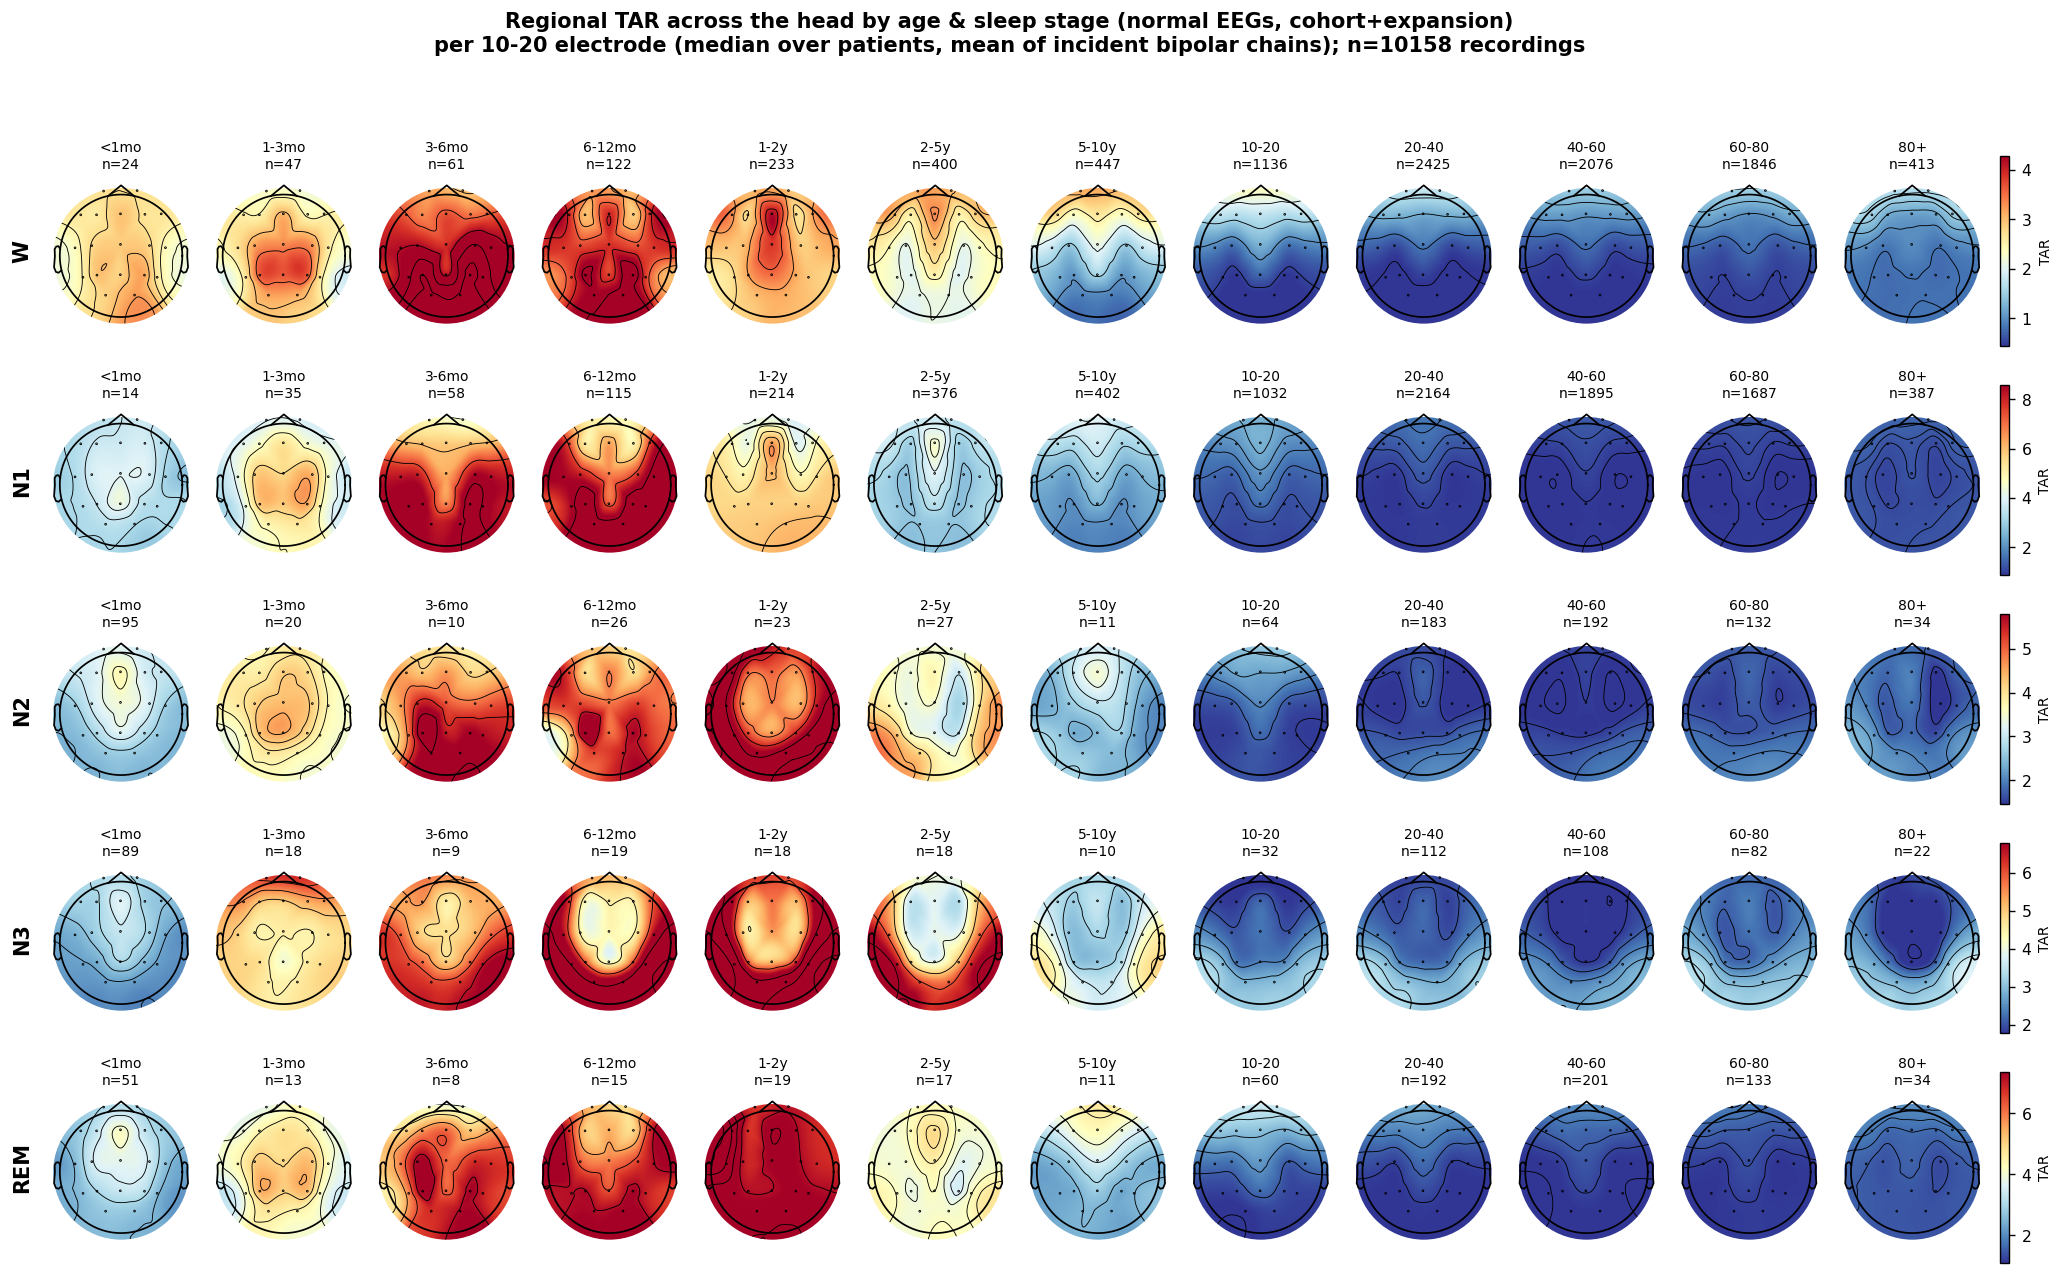
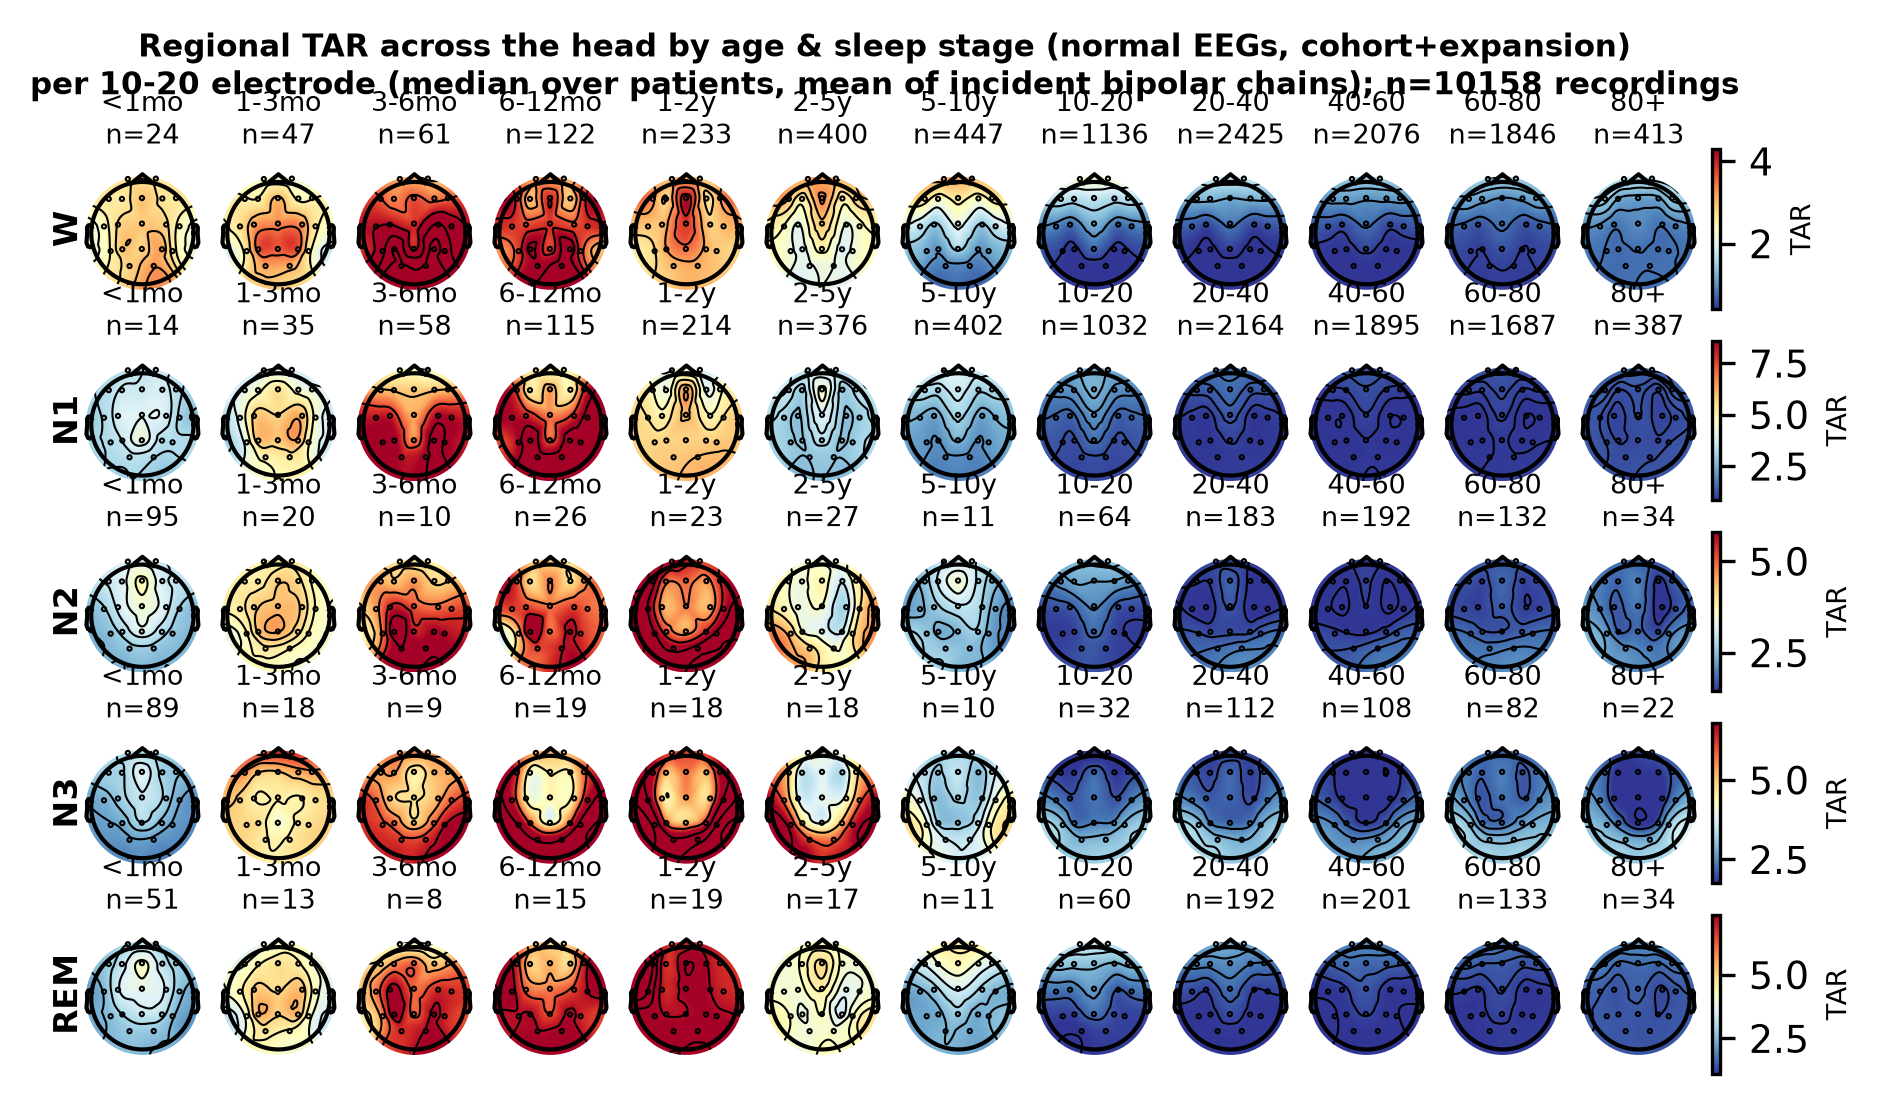
Phase 3: rebuild Figure 1 for the posterior rhythm and a readable adult axis (C100)
Shafi's two "MAJOR CRITIQUES" on Figure 1, both addressed in scripts/76:

1. The keystone was built on central derivations (C3/C4). The posterior
   dominant rhythm is read clinically from O1/O2, so the curves are now
   fitted on the occipital derivations (P3-O1, T5-O1, P4-O2, T6-O2).
   REGION=central restores the previous panel.

2. A single log10 age axis compressed all of adulthood into the last
   fifth of each cell. Every cell is now split into two sub-axes sharing
   a y-scale: log-spaced development to 20y, then a LINEAR adult axis to
   95y, with a dashed spine marking the break. The aging trend is legible
   for the first time.

Both Figure 1 panels are now authored at <=7.1in, so the composite no
longer shrinks them and the legibility guard passes. scripts/77 (the
topoplots, Figure 1b and S8) is likewise narrowed and its fonts scaled.
Ten figures still trip the guard and need the same treatment.

Also corrects a claim the new figure disproves. The text said the fitted
median "tracks closely across the lifespan" against the model-free
rolling median. It does from late infancy on, but for the ratio features
-- most visibly DAR in wake -- the penalized spline undershoots the
rolling median between roughly 3 and 12 months, where the ratio
distributions are strongly skewed and change fast. Said plainly, with
infant DAR/TAR z-scores flagged as conservative and a [verify] to refit
that range at higher mu df before submission.
[…]

diff --git a/scripts/76_keystone_growth_grid.py b/scripts/76_keystone_growth_grid.py
@@ -20,12 +20,24 @@ FEAT_LABEL = {"rel_delta": "Relative delta  (δ / total)", "TAR": "Theta/alpha r
               "DAR": "Delta/alpha ratio  (DAR)", "log_delta": "log delta power", "low_freq_rel": "low-freq / total"}
 FEAT_AUC = {"rel_delta": 0.72, "TAR": 0.82, "DAR": 0.79, "log_delta": 0.74, "low_freq_rel": 0.72}
 TABLE = "data/derived/channel_stage_features.parquet"
+# Review C100: the posterior dominant rhythm is read clinically from O1/O2 (at most P3/P4), not C3/C4, so
+# the keystone is now built on the occipital derivations. REGION=central restores the original panel.
+OCCIPITAL = ["P3-O1", "T5-O1", "P4-O2", "T6-O2"]
 CENTRAL = ["F3-C3", "C3-P3", "F4-C4", "C4-P4"]
+REGION = os.environ.get("REGION", "occipital").lower()
+CHANS = CENTRAL if REGION == "central" else OCCIPITAL
+REGION_LABEL = "central (C3/C4)" if REGION == "central" else "occipital (O1/O2)"
 STAGES = ["W", "N1", "N2", "N3", "REM"]
 YODA = {"W": "#E8B800", "N1": "#5FB0D0", "N2": "#4488FF", "N3": "#00008B", "REM": "#A040A0"}
 BANDS = [(3, 97), (10, 90), (25, 75)]
-TICK_AGES = [0, 1/12, 3/12, 6/12, 1, 2, 5, 10, 15, 20, 30, 40, 50, 60, 70, 80]
-TICK_LABELS = ["0", "1mo", "3mo", "6mo", "1", "2", "5", "10", "15", "20", "30", "40", "50", "60", "70", "80"]
+# Review C100: a single log10 age axis compresses all of adulthood into the last fifth of the panel, so the
+# aging trend cannot be read. Each cell is therefore split: log-spaced development to SPLIT_AGE, then a
+# LINEAR adult axis, drawn as two adjacent sub-axes sharing a y-scale.
+SPLIT_AGE = 20.0
+DEV_TICKS = [1/12, 6/12, 2, 5, 10, 20]
+DEV_LABELS = ["1mo", "6mo", "2", "5", "10", "20"]
+ADULT_TICKS = [30, 40, 50, 60, 70, 80, 90]
+ADULT_LABELS = ["30", "40", "50", "60", "70", "80", "90"]
 def A2T(age): return np.log10(np.asarray(age, float) + 1/12)
 
 
@@ -42,8 +54,8 @@ def rolling_pctile(t_data, v_data, t_grid, q=0.5, h=0.11):
 
 
 def fit_feature(df, feat):
-    """central per-(recording,stage) for one feature, overnight only -> GAMLSS curves per stage."""
-    c = df[df.region.isin(CENTRAL)].groupby(["bdsp_id", "stage"]).agg(
+    """region-mean per-(recording,stage) for one feature -> GAMLSS curves per stage."""
+    c = df[df.region.isin(CHANS)].groupby(["bdsp_id", "stage"]).agg(
         val=(feat, "mean"),
         # PUBLISHED artefact -> HIPAA Safe Harbor: ages >89 are binned to 90+ (the de-identified
         # OMOP does NOT do this for us; it returns ages up to 121). age_pub is the only age that
@@ -69,46 +81,82 @@ def fit_feature(df, feat):
 def main():
     df = pd.read_parquet(TABLE)
     # UNION of both report-normal cohorts. Valid once BOTH cohorts are on the identical extract.py+Morgoth
-    # pipeline (the cohort recompute) — before that, use src=="expansion" only. The union is the broad,
-    # conservative clinical-normal (scripts/79 showed it costs no detection power).
+    # pipeline (the cohort recompute) — the union is the broad, conservative clinical-normal.
     df = df[df.clean_normal == True]
-    nfig, nrow, ncol = len(FEATURES), len(STAGES), len(FEATURES)
-    fig, axes = plt.subplots(nrow, ncol, figsize=(4.6 * ncol, 2.5 * nrow), squeeze=False)
-    tg = A2T(np.logspace(np.log10(1/12), np.log10(90), 160))
+    ncol = len(FEATURES); nrow = len(STAGES)
+
+    # Sized for the page, not for the screen: the composite gives each figure 7in of width, so authoring
+    # wider than that shrinks every label below legibility (review C103). Kept at 7.1in.
+    fig = plt.figure(figsize=(7.1, 1.42 * nrow + 1.05))
+    # two sub-columns per feature: log-age development | linear-age adulthood
+    gs = fig.add_gridspec(nrow, 2 * ncol, width_ratios=[1.35, 1.0] * ncol,
+                          hspace=0.16, wspace=0.06, left=0.085, right=0.995, top=0.855, bottom=0.085)
+    tsplit = A2T(SPLIT_AGE)
 
     for cj, feat in enumerate(FEATURES):
         c, curves = fit_feature(df, feat)
-        ylo, yhi = c.val.quantile([0.01, 0.99])                      # shared y across stages within a feature
+        ylo, yhi = c.val.quantile([0.01, 0.99])                  # shared y across stages within a feature
         for ri, stage in enumerate(STAGES):
-            ax = axes[ri][cj]; col = YODA[stage]
+            col = YODA[stage]
             sub = c[c.stage == stage]
-            ax.scatter(sub.t, sub.val, s=3, alpha=0.12, color="#333", edgecolors="none", zorder=1)
             cv = curves[curves.group == stage].sort_values("t")
-            if len(cv):
-                for a, b in BANDS:
-                    ax.fill_between(cv.t, cv[f"p{a}"], cv[f"p{b}"], color=col, alpha=0.20, lw=0, zorder=2)
-                ax.plot(cv.t, cv.p50, color=col, lw=2.3, zorder=3)
-                emp = rolling_pctile(sub.t.values, sub.val.values, cv.t.values, 0.5)
-                ax.plot(cv.t, emp, color="k", lw=1.0, ls=(0, (4, 2)), alpha=0.7, zorder=4)
-            ax.set_ylim(ylo, yhi); ax.grid(alpha=0.18)
-            ax.set_xticks(A2T(TICK_AGES))
-            ax.set_xticklabels(TICK_LABELS if ri == nrow - 1 else [], fontsize=6.5, rotation=45, ha="right")
-            if cj == 0:
-                ax.set_ylabel(stage, fontsize=13, fontweight="bold", rotation=0, ha="right", va="center", labelpad=14)
-            ax.tick_params(labelsize=7)
+            emp = rolling_pctile(sub.t.values, sub.val.values, cv.t.values, 0.5) if len(cv) else None
+            axes_pair = []
+            for k in (0, 1):                                     # 0 = development (log), 1 = adult (linear)
+                ax = fig.add_subplot(gs[ri, 2 * cj + k])
+                axes_pair.append(ax)
+                dev = k == 0
+                # x transform: log-age on the left panel, raw years on the right
+                def X(t_arr):
+                    a = 10 ** np.asarray(t_arr, float) - 1 / 12
+                    return A2T(a) if dev else a
+                m_s = (sub.age <= SPLIT_AGE) if dev else (sub.age > SPLIT_AGE)
+                ax.scatter(X(sub.t[m_s]), sub.val[m_s], s=1.6, alpha=0.10, color="#333",
+                           edgecolors="none", zorder=1)
+                if len(cv):
+                    age_c = 10 ** cv.t.values - 1 / 12
+                    m_c = (age_c <= SPLIT_AGE) if dev else (age_c > SPLIT_AGE)
+                    xc = X(cv.t.values)[m_c]
+                    for a, b in BANDS:
+                        ax.fill_between(xc, cv[f"p{a}"].values[m_c], cv[f"p{b}"].values[m_c],
+                                        color=col, alpha=0.20, lw=0, zorder=2)
+                    ax.plot(xc, cv.p50.values[m_c], color=col, lw=1.6, zorder=3)
+                    if emp is not None:
+                        ax.plot(xc, emp[m_c], color="k", lw=0.8, ls=(0, (3, 2)), alpha=0.7, zorder=4)
+                ax.set_ylim(ylo, yhi)
+                ax.grid(alpha=0.16, lw=0.4)
+                ax.tick_params(labelsize=5.6, length=2, pad=1.5)
+                if dev:
+                    ax.set_xlim(A2T(1 / 12), tsplit)
+                    ax.set_xticks(A2T(DEV_TICKS))
+                    ax.set_xticklabels(DEV_LABELS if ri == nrow - 1 else [], rotation=45, ha="right")
+                    ax.spines["right"].set_visible(False)
+                else:
+                    ax.set_xlim(SPLIT_AGE, 95)
+                    ax.set_xticks(ADULT_TICKS)
+                    ax.set_xticklabels(ADULT_LABELS if ri == nrow - 1 else [], rotation=45, ha="right")
+                    ax.spines["left"].set_linestyle((0, (2, 2)))
+                    ax.tick_params(labelleft=False)
+                if k == 0 and cj == 0:
+                    ax.set_ylabel(stage, fontsize=8.5, fontweight="bold", rotation=0,
+                                  ha="right", va="center", labelpad=9)
+                else:
+                    ax.tick_params(labelleft=False)
             if ri == 0:
-                ax.set_title(f"{FEAT_LABEL.get(feat, feat)}\nnormal-vs-abnormal AUROC ≈ {FEAT_AUC.get(feat,0):.2f}",
-                             fontsize=11, fontweight="bold")
+                axes_pair[0].set_title(f"{FEAT_LABEL.get(feat, feat)}\nAUROC ≈ {FEAT_AUC.get(feat, 0):.2f}",
+                                       fontsize=7.2, fontweight="bold", loc="left", pad=4)
             if ri == nrow - 1:
-                ax.set_xlabel("age (years, log-scaled)", fontsize=8)
+                axes_pair[0].set_xlabel("age (log)", fontsize=6.2, labelpad=1)
+                axes_pair[1].set_xlabel("age (linear)", fontsize=6.2, labelpad=1)
 
-    fig.suptitle("Normative EEG-slowing growth curves across the lifespan, by sleep stage & feature\n"
-                 "central (C3/C4), union of both cohorts (routine+overnight, identical pipeline), sexes pooled; GAMLSS/LMS BCT — solid median, dashed = "
-                 "model-free rolling median, bands p3–p97/p10–p90/p25–p75  (n≈15k/stage)", fontsize=12)
-    fig.tight_layout(rect=[0.01, 0, 1, 0.96])
+    fig.suptitle("Normative EEG-slowing growth curves across the lifespan, by sleep stage and feature\n"
+                 f"{REGION_LABEL}; sexes pooled; GAMLSS/LMS BCT — solid median, dashed = model-free rolling "
+                 "median,\nbands p3–p97 / p10–p90 / p25–p75. Each cell: log-spaced development to "
+                 f"{SPLIT_AGE:.0f}y, then a linear adult axis.",
+                 fontsize=7.6, y=0.985)
     out = Path("figures/growth_v2/keystone_growth_grid.png"); out.parent.mkdir(parents=True, exist_ok=True)
-    fig.savefig(out, dpi=300, bbox_inches="tight"); plt.close(fig)
-    print("wrote", out)
+    fig.savefig(out, dpi=300, facecolor="white"); plt.close(fig)
+    print("wrote", out, f"[region={REGION}]")
 
 
 if __name__ == "__main__":

diff --git a/scripts/77_topoplots_by_age.py b/scripts/77_topoplots_by_age.py
@@ -55,7 +55,7 @@ def to_electrodes(chan_series):
 
 
 def render(tab, info, feature):
-    fig, axes = plt.subplots(len(STAGES), len(AGE_BINS), figsize=(1.7 * len(AGE_BINS), 2.3 * len(STAGES)))
+    fig, axes = plt.subplots(len(STAGES), len(AGE_BINS), figsize=(min(7.1, 1.7 * len(AGE_BINS)), min(7.1, 1.7 * len(AGE_BINS)) / (1.7 * len(AGE_BINS)) * 2.3 * len(STAGES)))
     for ri, stage in enumerate(STAGES):
         vals_by_bin = []
         for (lo, hi) in AGE_BINS:
@@ -72,15 +72,15 @@ def render(tab, info, feature):
                                              show=False, cmap="RdYlBu_r", vlim=(vmin, vmax),
                                              contours=4, sensors=True, image_interp="cubic",
                                              extrapolate="head", res=128)
-            ax.set_title(f"{BIN_LABELS[ci]}\nn={nrec}", fontsize=8)
+            ax.set_title(f"{BIN_LABELS[ci]}\nn={nrec}", fontsize=6.5)
             if ci == 0:
-                ax.text(-0.3, 0.5, stage, transform=ax.transAxes, fontsize=12, fontweight="bold",
+                ax.text(-0.3, 0.5, stage, transform=ax.transAxes, fontsize=8, fontweight="bold",
                         rotation=90, va="center")
         if im is not None:
-            fig.colorbar(im, ax=list(axes[ri]), fraction=0.015, pad=0.01).set_label(feature, fontsize=8)
+            fig.colorbar(im, ax=list(axes[ri]), fraction=0.015, pad=0.01).set_label(feature, fontsize=6.5)
     fig.suptitle(f"Regional {feature} across the head by age & sleep stage (normal EEGs, cohort+expansion)\n"
                  f"per 10-20 electrode (median over patients, mean of incident bipolar chains); "
-                 f"n={tab.bdsp_id.nunique()} recordings", fontsize=12)
+                 f"n={tab.bdsp_id.nunique()} recordings", fontsize=7.5)
     out = Path(f"figures/growth_v2/topo_{feature}_by_age_stage.png")
     out.parent.mkdir(parents=True, exist_ok=True)
     fig.savefig(out, dpi=300, bbox_inches="tight"); plt.close(fig)

diff --git a/docs/manuscript_draft.md b/docs/manuscript_draft.md
@@ -94,7 +94,7 @@ Routine EEG feature sets are unstaged. We staged each recording from the raw EEG
 
 ### 2.4 Normative growth curves (GAMLSS)
 
-For each feature × region × sleep stage we estimate normal-population percentile \"growth curves\" as a continuous function of age using GAMLSS, the method behind clinical growth charts (Cole & Green \[11\]; Rigby & Stasinopoulos \[10\]). Age is entered as `log10(age + 1/12)`, expanding infancy where maturation is fastest. Two families are used according to the feature\'s support: positive features (relative powers, ratios) are fit with a Box--Cox-t (BCT) distribution with penalized-spline median, dispersion and age-varying skewness (`mu`, `sigma`, `nu` each smooth in log-age), which removes an infant-age median bias that a constant-skewness fit produces. The BCT's fourth parameter, the **tail/kurtosis parameter `tau`** (the degrees of freedom of the underlying t), is also fitted per cell and is used in scoring: a value is mapped to its centile through the t CDF at that cell's `tau`, so heavy-tailed cells do not manufacture extreme z-scores. Real-line log features real-line log features (log_delta, log_theta, log_TAR, which take negative values in 15--37% of segments) are fit with a support-aware robust median-in-log-age model on the real line. The Python BCT z-scores are validated exact against R `gamlss` `centiles.pred`. Each curve is checked against a model-free rolling median in a sliding, age-widening window, which the fitted median tracks closely across the lifespan.
+For each feature × region × sleep stage we estimate normal-population percentile \"growth curves\" as a continuous function of age using GAMLSS, the method behind clinical growth charts (Cole & Green \[11\]; Rigby & Stasinopoulos \[10\]). Age is entered as `log10(age + 1/12)`, expanding infancy where maturation is fastest. Two families are used according to the feature\'s support: positive features (relative powers, ratios) are fit with a Box--Cox-t (BCT) distribution with penalized-spline median, dispersion and age-varying skewness (`mu`, `sigma`, `nu` each smooth in log-age), which removes an infant-age median bias that a constant-skewness fit produces. The BCT's fourth parameter, the **tail/kurtosis parameter `tau`** (the degrees of freedom of the underlying t), is also fitted per cell and is used in scoring: a value is mapped to its centile through the t CDF at that cell's `tau`, so heavy-tailed cells do not manufacture extreme z-scores. Real-line log features real-line log features (log_delta, log_theta, log_TAR, which take negative values in 15--37% of segments) are fit with a support-aware robust median-in-log-age model on the real line. The Python BCT z-scores are validated exact against R `gamlss` `centiles.pred`. Each curve is checked against a model-free rolling median in a sliding, age-widening window, and both are plotted together in Figure 1a so the reader can see the agreement rather than take it on trust. The fitted median tracks the empirical one closely from late infancy onward. It does **not** track it through the sharpest part of the infant peak for the ratio features, most visibly DAR in wake, where the penalized spline under-shoots the rolling median between roughly 3 and 12 months; the ratio distributions there are strongly skewed and change faster than a spline with this smoothness can follow. Deviation z-scores for infants under one year should therefore be treated as conservative for DAR and TAR **\[verify: refit the infant range with a higher mu degrees-of-freedom before submission\]**.
 
 **Sex is pooled.** Conditioning norms on sex changes abnormality discrimination by ΔAUROC ≤ 0.002 in every feature × region × contrast we tested; we therefore pool sexes, doubling the effective sample per age.
 
@@ -165,7 +165,7 @@ The analysis cohort comprised 25,536 recordings from 21,757 patients (Table 1): 
 
 ### 3.2 Growth curves reproduce development and aging, in curve and in space
 
-The normative curves recapitulate known maturation patterns: at the central (C3/C4) region, relative delta and the theta/alpha and delta/alpha ratios fall steeply through childhood to an adult plateau by \~30 years, and normal-referenced z-scores center on 0 for controls across the lifespan (**Figure 1a**; solid GAMLSS median tracks the model-free rolling median). The scalp-topography rendering makes the spatial story explicit (**Figure 1b**): relative delta is frontal-predominant, highest in infancy across every sleep stage, and declines monotonically toward adulthood, deepest in N3; these are the regional substrate the localization descriptors rely on; the theta/alpha ratio shows the same developmental pattern (**Figure S8**), so the topographic result is not specific to relative delta. Stage-resolved curves quantify the expected physiology: median relative delta rises with sleep depth W ≈ N1 \< N2 \< N3, REM intermediate (**Figure S3**). The direct clinical consequence is that delta which is abnormal in wake is entirely normal in N2/N3.
+The normative curves recapitulate known maturation patterns: at the occipital derivations (O1/O2), the region from which the posterior dominant rhythm is read clinically, relative delta and the theta/alpha and delta/alpha ratios fall steeply through childhood to an adult plateau by \~30 years, and normal-referenced z-scores center on 0 for controls across the lifespan (**Figure 1a**; solid GAMLSS median tracks the model-free rolling median). The scalp-topography rendering makes the spatial story explicit (**Figure 1b**): relative delta is frontal-predominant, highest in infancy across every sleep stage, and declines monotonically toward adulthood, deepest in N3; these are the regional substrate the localization descriptors rely on; the theta/alpha ratio shows the same developmental pattern (**Figure S8**), so the topographic result is not specific to relative delta. Stage-resolved curves quantify the expected physiology: median relative delta rises with sleep depth W ≈ N1 \< N2 \< N3, REM intermediate (**Figure S3**). The direct clinical consequence is that delta which is abnormal in wake is entirely normal in N2/N3.
 
 **The curves are calibrated on held-out data.** A percentile model is only useful if its percentiles are
 real, so we tested them where they were not fitted (**Figure S9**). The norms are fitted on a seeded
